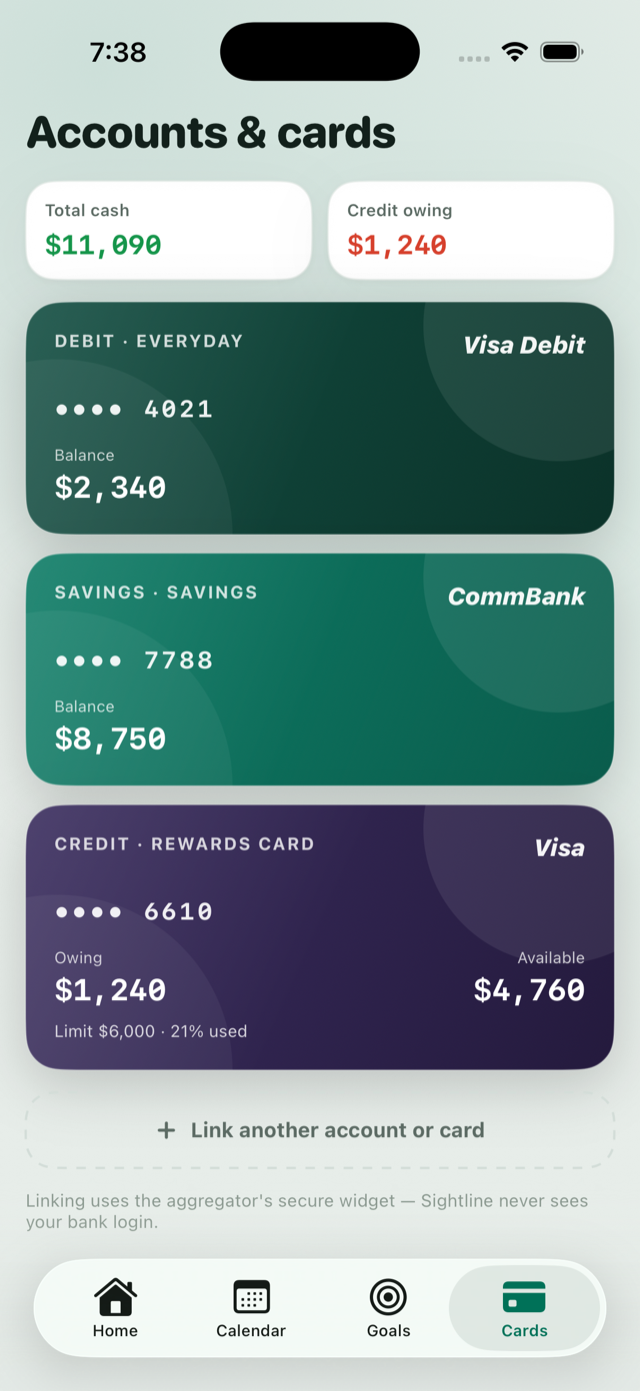
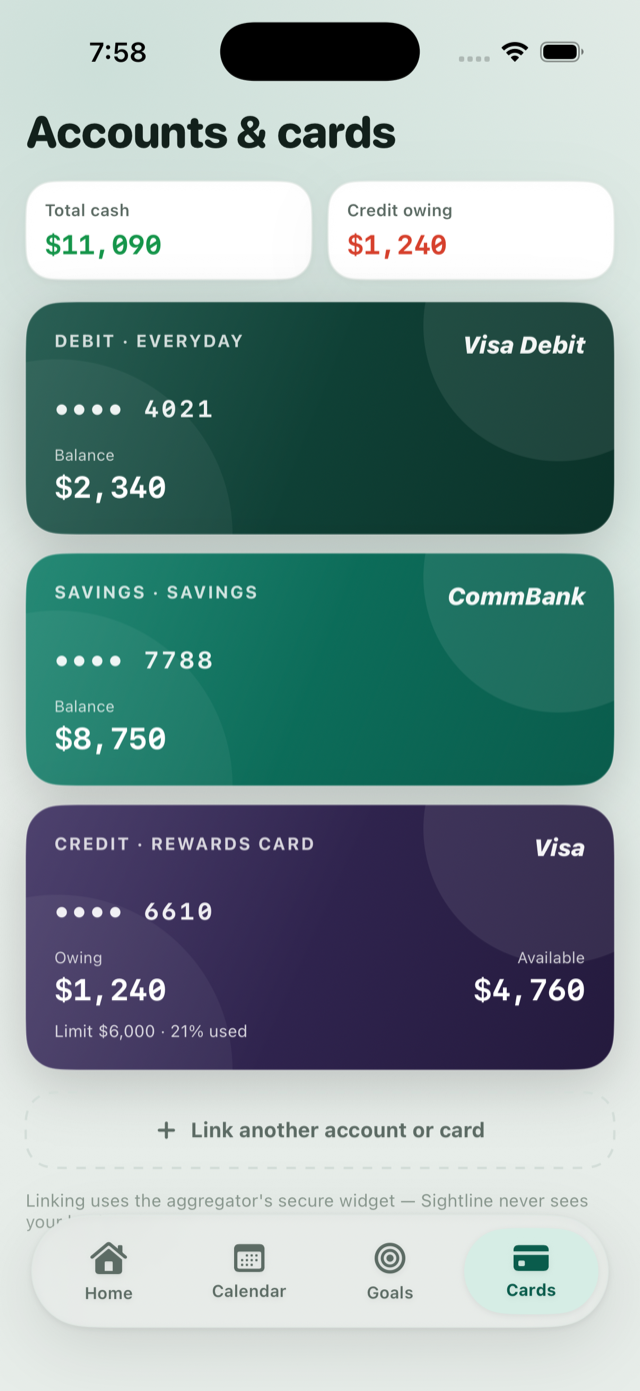
Add custom floating tab bar
Replaces the system tab bar with a glass capsule (ultraThinMaterial) that
has a spring-sliding selection pill (matchedGeometryEffect), bouncing SF
Symbols, labels, haptics, and a soft fade so content settles beneath it.
TabView is kept underneath (state preserved) with its bar hidden.

New: Views/TabBar.swift (AppTab, FloatingTabBar). README screenshots refreshed.

Changed region(s): [[0.0312, 0.8656, 0.75, 0.9892], [0.7188, 0.8965, 0.9375, 0.9583], [0.1562, 0.0309, 0.1875, 0.0618]]

diff --git a/Sightline/Views/TabBar.swift b/Sightline/Views/TabBar.swift
@@ -1,0 +1,76 @@
+import SwiftUI
+
+enum AppTab: Int, CaseIterable, Identifiable {
+    case home, calendar, goals, cards
+    var id: Int { rawValue }
+
+    var title: String {
+        switch self {
+        case .home:     return "Home"
+        case .calendar: return "Calendar"
+        case .goals:    return "Goals"
+        case .cards:    return "Cards"
+        }
+    }
+    var icon: String {
+        switch self {
+        case .home:     return "house.fill"
+        case .calendar: return "calendar"
+        case .goals:    return "target"
+        case .cards:    return "creditcard.fill"
+        }
+    }
+}
+
+/// A floating glass tab bar with a spring-sliding selection pill and bouncing icons.
+struct FloatingTabBar: View {
+    @Binding var selection: AppTab
+    @Namespace private var pillNamespace
+
+    var body: some View {
+        HStack(spacing: 4) {
+            ForEach(AppTab.allCases) { tab in
+                let selected = tab == selection
+                Button {
+                    guard !selected else { return }
+                    withAnimation(.spring(response: 0.38, dampingFraction: 0.78)) { selection = tab }
+                } label: {
+                    VStack(spacing: 4) {
+                        Image(systemName: tab.icon)
+                            .font(.system(size: 19, weight: .semibold))
+                            .symbolEffect(.bounce, value: selected)
+                        Text(tab.title)
+                            .font(.system(size: 10.5, weight: selected ? .bold : .semibold))
+                    }
+                    .foregroundStyle(selected ? Theme.accentInk : Theme.muted)
+                    .frame(maxWidth: .infinity)
+                    .padding(.vertical, 9)
+                    .background {
+                        if selected {
+                            Capsule()
+                                .fill(Theme.accentSoft)
+                                .matchedGeometryEffect(id: "selection-pill", in: pillNamespace)
+                        }
+                    }
+                    .contentShape(Capsule())
+                }
+                .buttonStyle(.plain)
+                .accessibilityLabel(tab.title)
+                .accessibilityAddTraits(selected ? .isSelected : [])
+            }
+        }
+        .padding(6)
+        .background(.ultraThinMaterial, in: Capsule())
+        .overlay(Capsule().stroke(Theme.line.opacity(0.75), lineWidth: 1))
+        .cardShadow(1.4)
+        .padding(.horizontal, 20)
+        .padding(.top, 10)
+        .padding(.bottom, 6)
+        // Soft fade so scrolling content settles gently beneath the bar.
+        .background(
+            LinearGradient(colors: [Theme.bg.opacity(0), Theme.bg.opacity(0.9)],
+                           startPoint: .top, endPoint: .bottom)
+                .ignoresSafeArea(edges: .bottom)
+        )
+    }
+}

diff --git a/Sightline/Views/RootView.swift b/Sightline/Views/RootView.swift
@@ -2,20 +2,26 @@ import SwiftUI
 
 struct RootView: View {
     @EnvironmentObject var store: AppStore
-    @State private var tab = 0
+    @State private var tab: AppTab = .home
 
     var body: some View {
         TabView(selection: $tab) {
             HomeView()
-                .tabItem { Label("Home", systemImage: "house.fill") }.tag(0)
+                .tag(AppTab.home)
+                .toolbar(.hidden, for: .tabBar)
             CalendarView()
-                .tabItem { Label("Calendar", systemImage: "calendar") }.tag(1)
+                .tag(AppTab.calendar)
+                .toolbar(.hidden, for: .tabBar)
             GoalsView()
-                .tabItem { Label("Goals", systemImage: "target") }.tag(2)
+                .tag(AppTab.goals)
+                .toolbar(.hidden, for: .tabBar)
             CardsView()
-                .tabItem { Label("Cards", systemImage: "creditcard.fill") }.tag(3)
+                .tag(AppTab.cards)
+                .toolbar(.hidden, for: .tabBar)
         }
         .tint(Theme.accent)
+        // Our own floating bar; safeAreaInset keeps content from scrolling under it.
+        .safeAreaInset(edge: .bottom) { FloatingTabBar(selection: $tab) }
         .onChange(of: tab) { _, _ in Haptics.select() }
     }
 }
